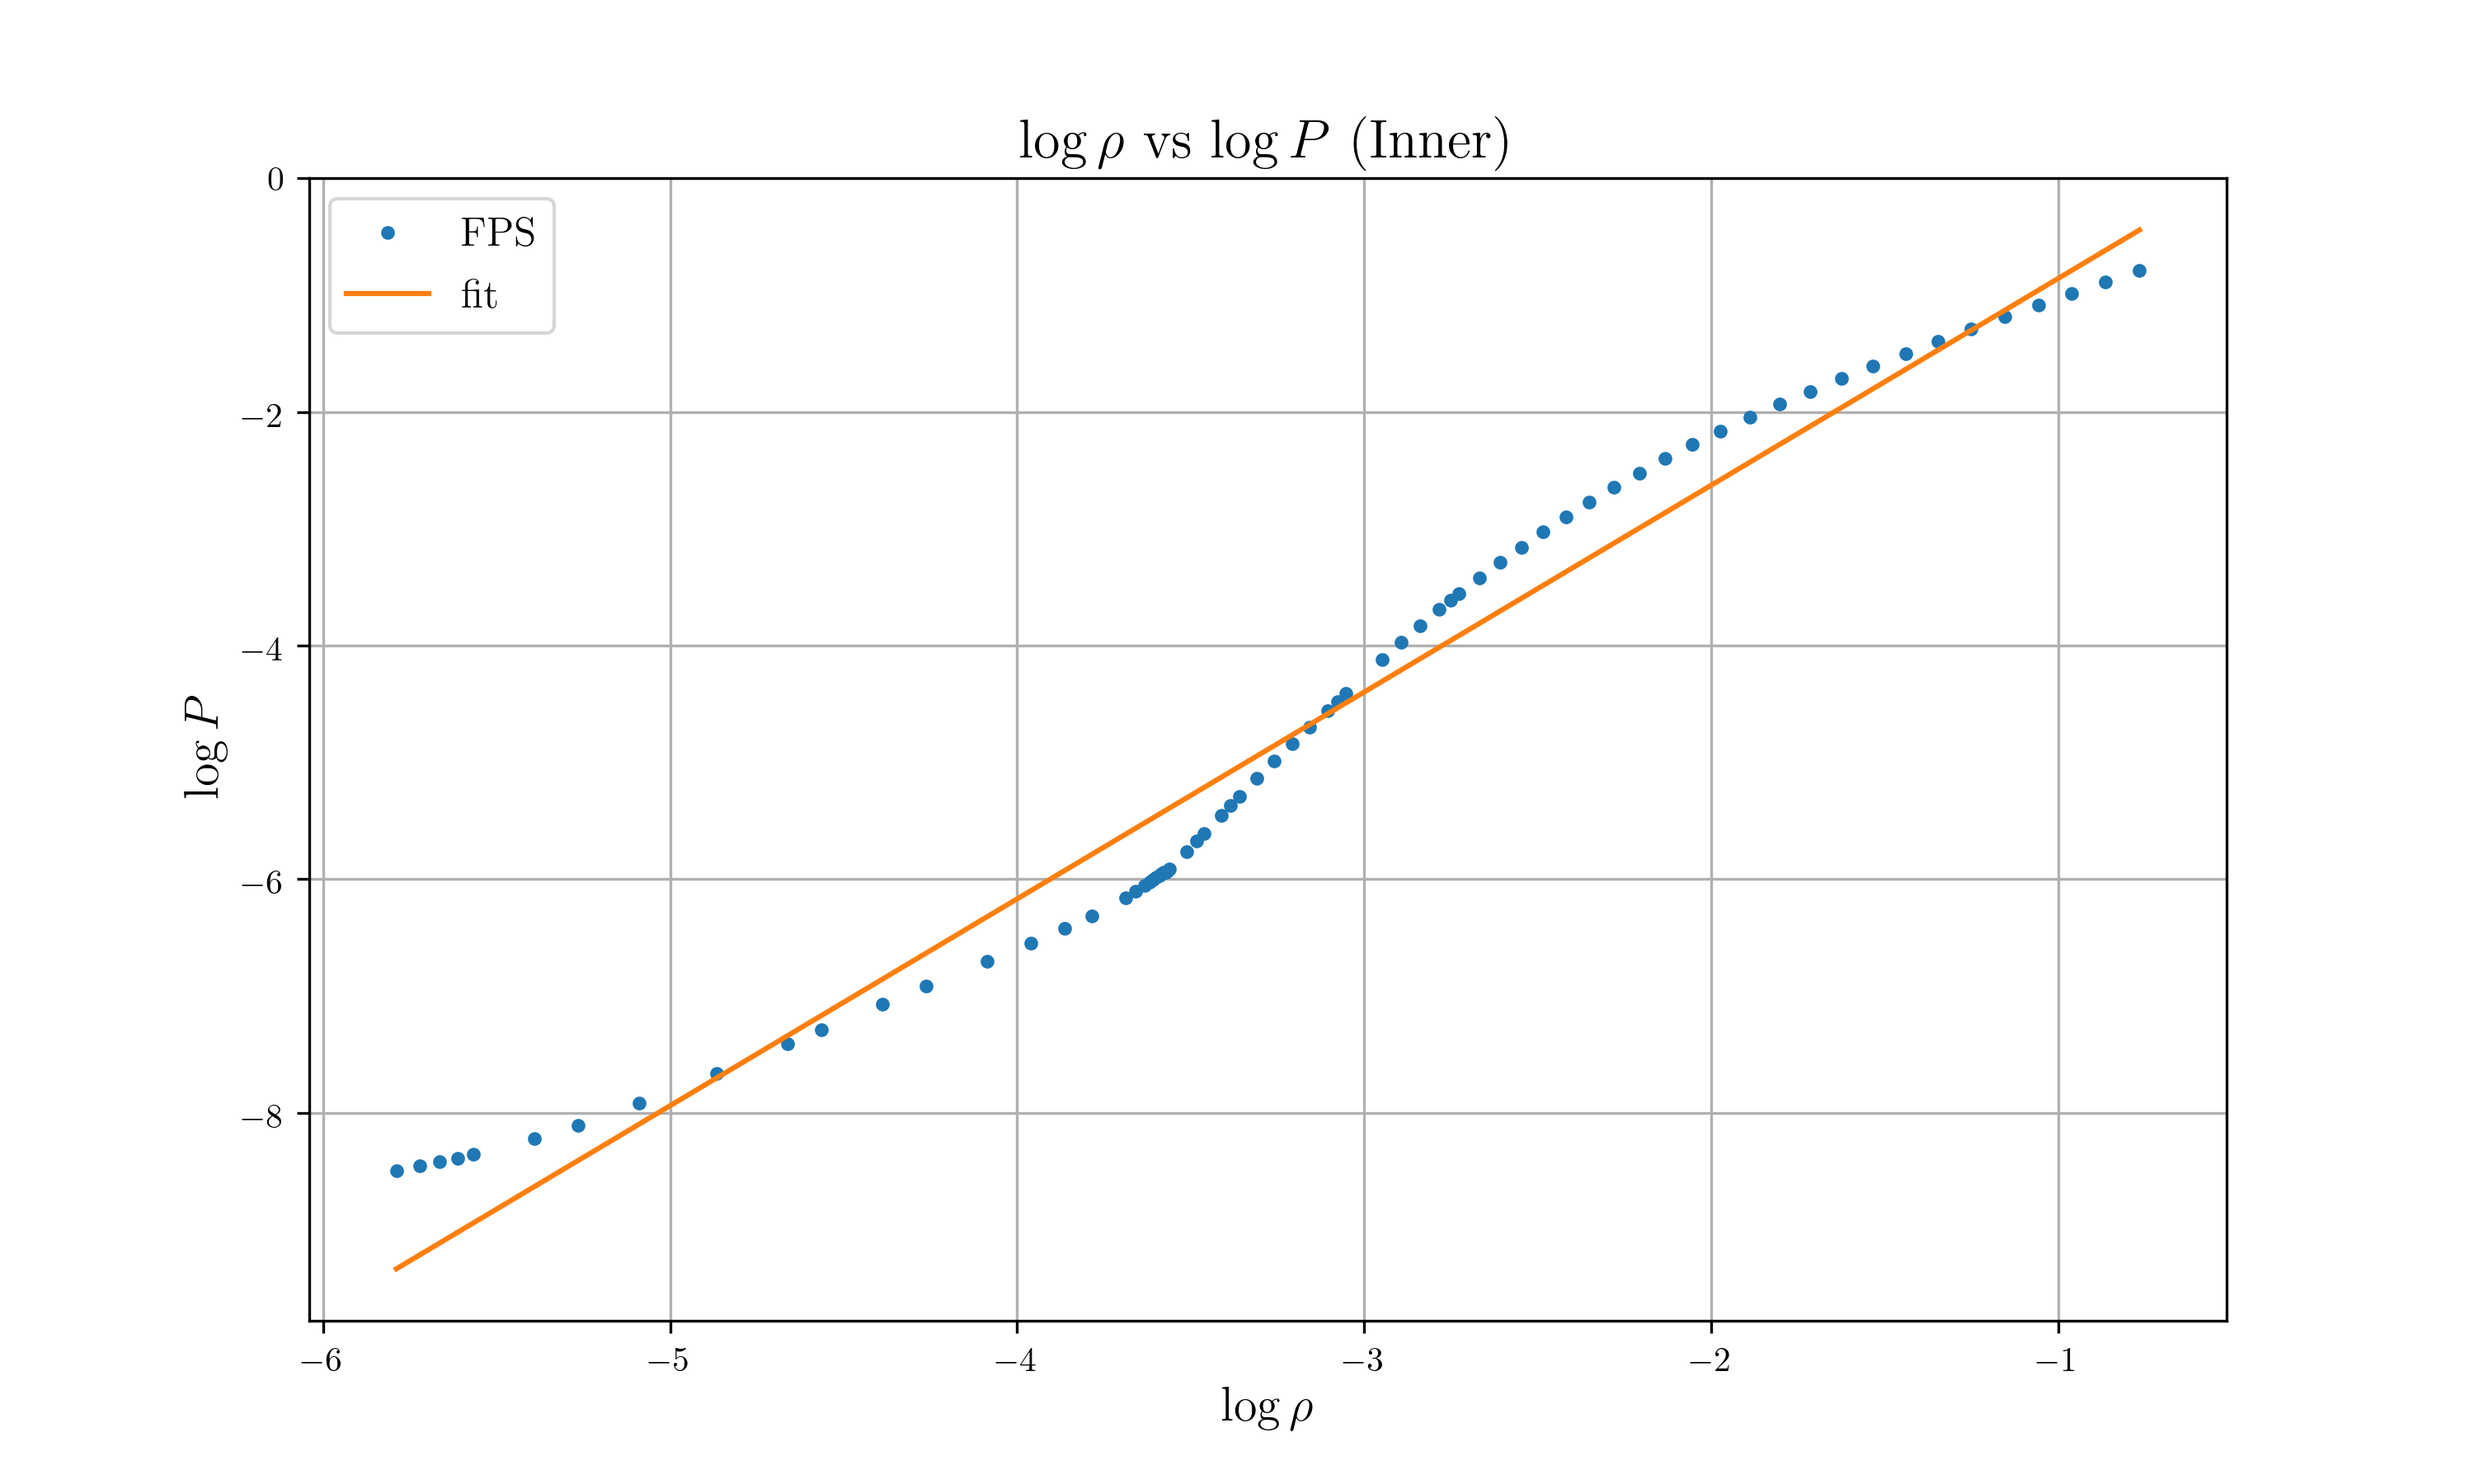
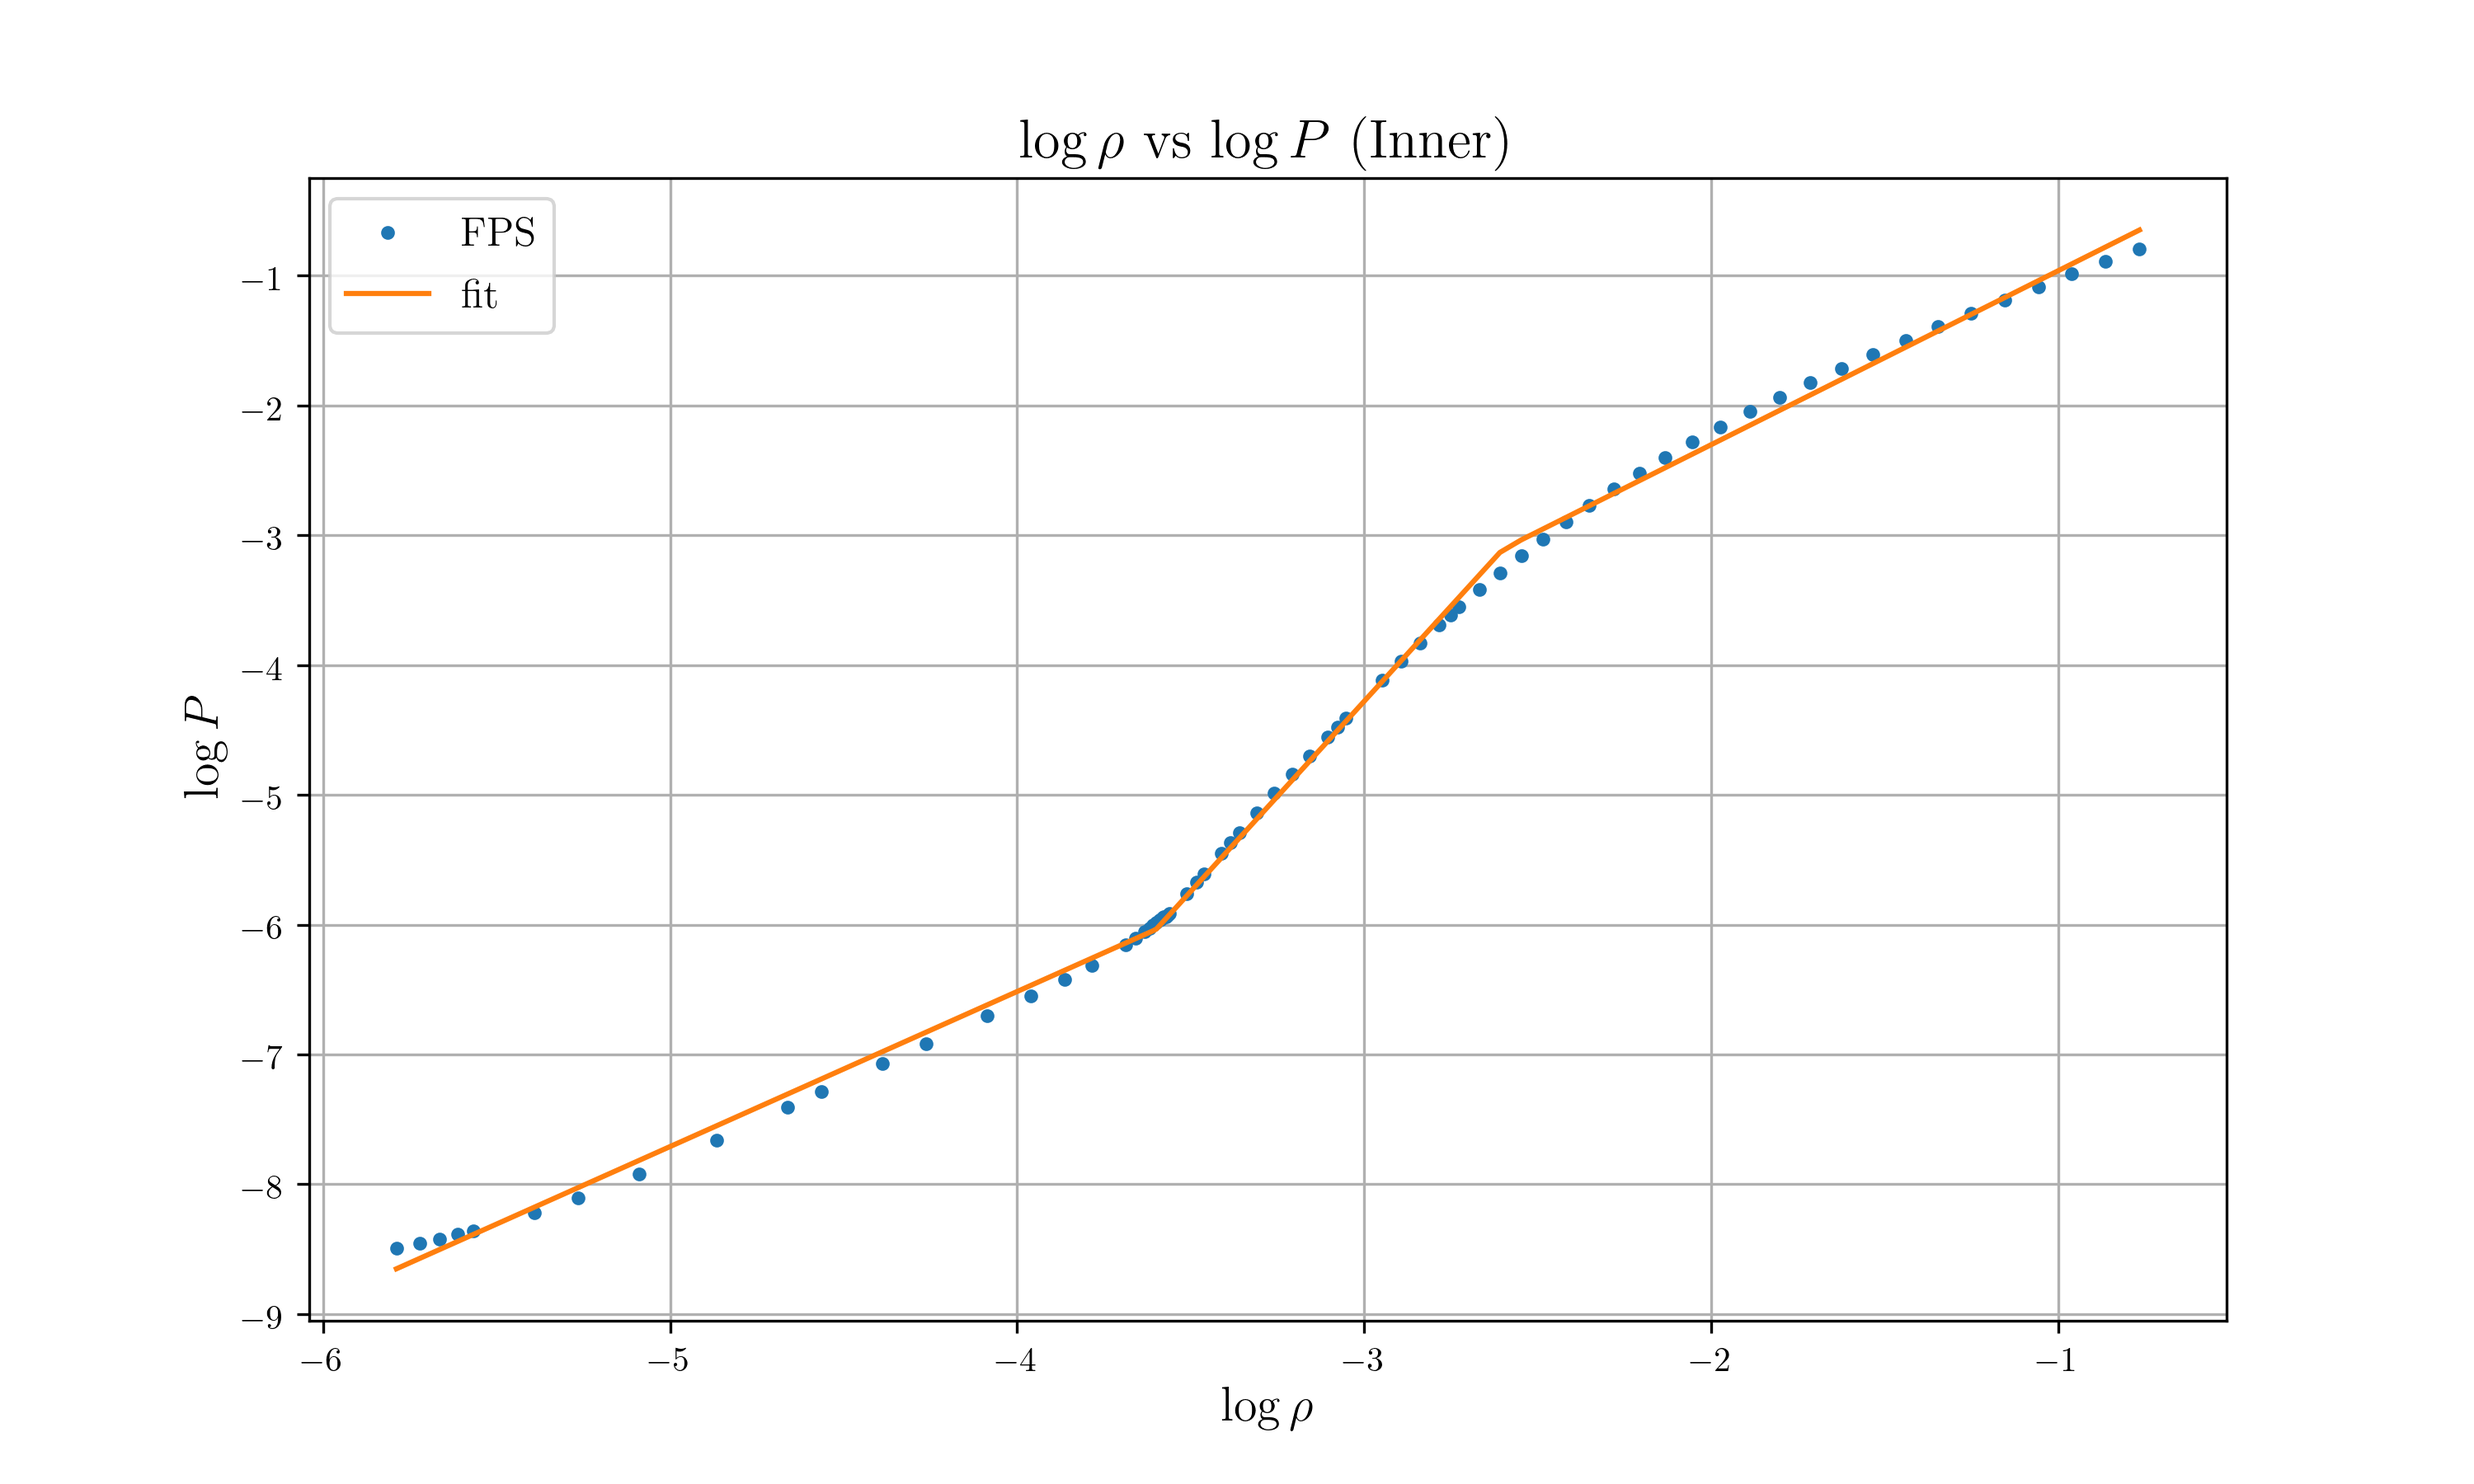
Fitting with piecewise polytrope (3 pieces)

Changed region(s): [[0.124, 0.1556, 0.899, 0.4978], [0.155, 0.4978, 0.527, 0.8711]]

diff --git a/src/bin/search_fps.rs b/src/bin/search_fps.rs
@@ -27,12 +27,13 @@ fn main() {
     p.len().print();
 
     let kg = vec![100f64, 2f64];
+    let kgs = vec![100f64, 2f64, 2f64, 2f64];
 
     let data = hstack!(rho.clone(), p.clone());
     let data_crust = hstack!(rho_crust.clone(), p_crust.clone());
 
-    let mut opt = Optimizer::new(data, polytrope);
-    let param = opt.set_init_param(kg.clone())
+    let mut opt = Optimizer::new(data, piecewise_polytrope);
+    let param = opt.set_init_param(kgs.clone())
         .set_method(LevenbergMarquardt)
         .set_max_iter(100)
         .optimize();
@@ -45,7 +46,7 @@ fn main() {
         .optimize();
     param_crust.print();
 
-    let fit = polytrope(&rho, NumberVector::from_f64_vec(param)).to_f64_vec();
+    let fit = piecewise_polytrope(&rho, NumberVector::from_f64_vec(param)).to_f64_vec();
     let fit_crust = polytrope(&rho_crust, NumberVector::from_f64_vec(param_crust)).to_f64_vec();
 
     let mut plot = Plot2D::new();
@@ -78,5 +79,27 @@ fn polytrope(rho: &Vec<f64>, kr: Vec<Number>) -> Vec<Number> {
     let g = kr[1];
     rho.clone().into_iter()
         .map(|x| k.log10() + g * x)
+        .collect()
+}
+
+fn piecewise_polytrope(rho: &Vec<f64>, kr: Vec<Number>) -> Vec<Number> {
+    let k1 = kr[0];
+    let g1 = kr[1];
+    let g2 = kr[2];
+    let g3 = kr[3];
+    let rho1 = -3.6f64;
+    let rho2 = -2.6f64;
+    let k2 = (k1 * Number::F(10f64.powf(rho1)).powf(g1)) / Number::F(10f64.powf(rho1)).powf(g2);
+    let k3 = (k2 * Number::F(10f64.powf(rho2)).powf(g2)) / Number::F(10f64.powf(rho2)).powf(g3);
+    rho.clone().into_iter()
+        .map(|x| {
+            if x <= rho1 {
+                k1.log10() + g1 * x
+            } else if x <= rho2 {
+                k2.log10() + g2 * x
+            } else {
+                k3.log10() + g3 * x
+            }
+        })
         .collect()
 }
